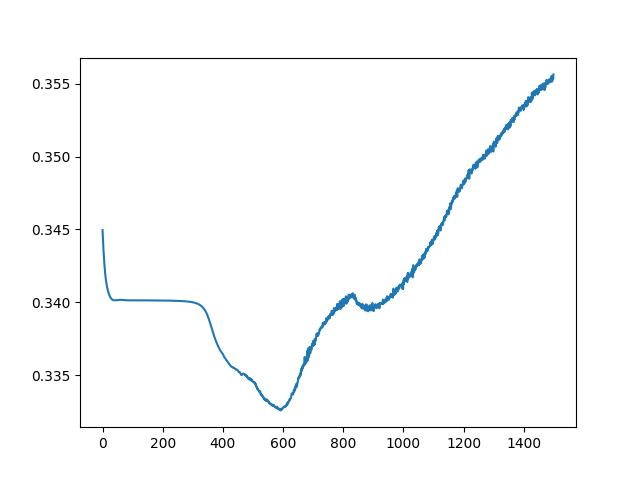
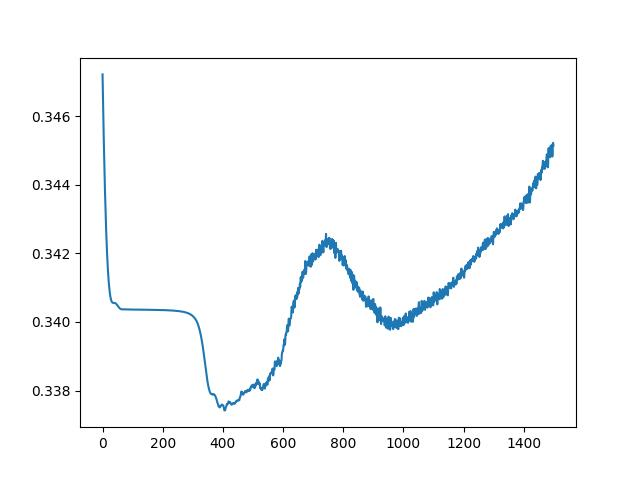
Update readme

diff --git a/model.py b/model.py
@@ -287,7 +287,7 @@ def train_with_lasso():
     dropped_test_indices = test_input_data
 
     for removal_indices in all_removal_indices:
-        dropped_test_indices = remove_from_input_dataset(dropped_test_indices, removal_indices)
+         dropped_test_indices = remove_from_input_dataset(dropped_test_indices, removal_indices)
 
     post_training_losses = find_loss(parameters, dropped_test_indices, test_output_data, 0)
     print("post training loss: ", jnp.mean(post_training_losses), "+-", jnp.std(post_training_losses))

diff --git a/README.md b/README.md
@@ -1,14 +1,61 @@
-## Notes
+# Quantum Channel and State Graph Learning
 
-### Nov 27th 
+In this repo we make use primarily of Qiskit and Jax to implement depp learning approaches to learning 
+Pauli error rates on a circuit with many-body qubit interaction and dynamical decoupling.
 
-To get qiskit 0.6.0 (with tomography) working on M3 Mac:
+The repo is broken into the following files, and generally into two components which can be decoupled. 
 
-- Had to demote to networkx 2.3 for compatibility
-- Had to use x86 conda channel to get python3.7 in order to support fractions.gcd used in networkx==0.23
-- Python 3.7 not compatible with pennylane (any version as far as I can tell)
-- Therefore we'll have to execute our scripts separately, pass QASM back and forth
+## model.py
 
-### Nov 28th 
+This file contains the first component of the model which involves pooling, a fully connected NN with several 
+hidden layers, and a softmax. This file also implements a loss function which is based on comparing process 
+matrices reconstructed from the learned Pauli error rates to matrices obtained from process tomography, making
+use of the second component of the model to calculate the process matrix.
 
-- Updated to qiskit 1.3.0 and installed qiskit-experiments
+## channels.py
+
+This file contains functions that are useful for transforming channels between different representations and 
+comparing them to each other.
+
+## circuit.py
+
+Circuit.py contains an implementation of the quantum circuit we chose to study using Xanadu's Pennylane quantum 
+machine learning library.
+
+## circuit_qiskit.py
+
+While Pennylane has its advantages when we are interested in machine learning, Qiskit is arguably more feature-rich 
+which became important for us as we needed to do process tomography. Qiskit Experiments has a process tomography 
+implementation that we used to generate our training and benchmark data.
+
+## data_utils.py 
+
+This file contains utilities for saving and loading our data as well as transformting our data. We add support to json 
+for complex values and we implement a translation from Qiskit's maesurement counts to quantum expectation values.
+
+## evalutation_utils.py
+
+In here we implement the tools used to evaluate the performance of the various methods we compare to each other in this 
+work.
+
+## unitary_circuit.py
+
+In unitary_circuit.py we implement a version of our circuit execution that is abstract in the sense that it can be
+evaluated using various methods specified with a flag. This allows us to compare approaches involving the representation 
+of quantum information with graph Laplacians, Kraus operators and density matrices.
+
+## non_unitary_circuit.py
+
+unitary_circuit.py can be used on its own in which case Pauli errors will be inserted by randomly drawing Paulis from 
+an error probability distribution. However, in order to represent the non-unitary error channels in their entirety, it
+is necessary to maintain and sum over a number of unitarily evolving subsystems. non_unitary_circuit.py implements the
+logic for this use case.
+
+## pauli_utils.py
+
+This file contains the functions we use to perform operations related to Pauli algebra.
+
+## process_tomography.py
+
+process_tomgraphy.py contains the script and the function we use to generate our test and benchmark data, leveraging 
+Qiskit.
